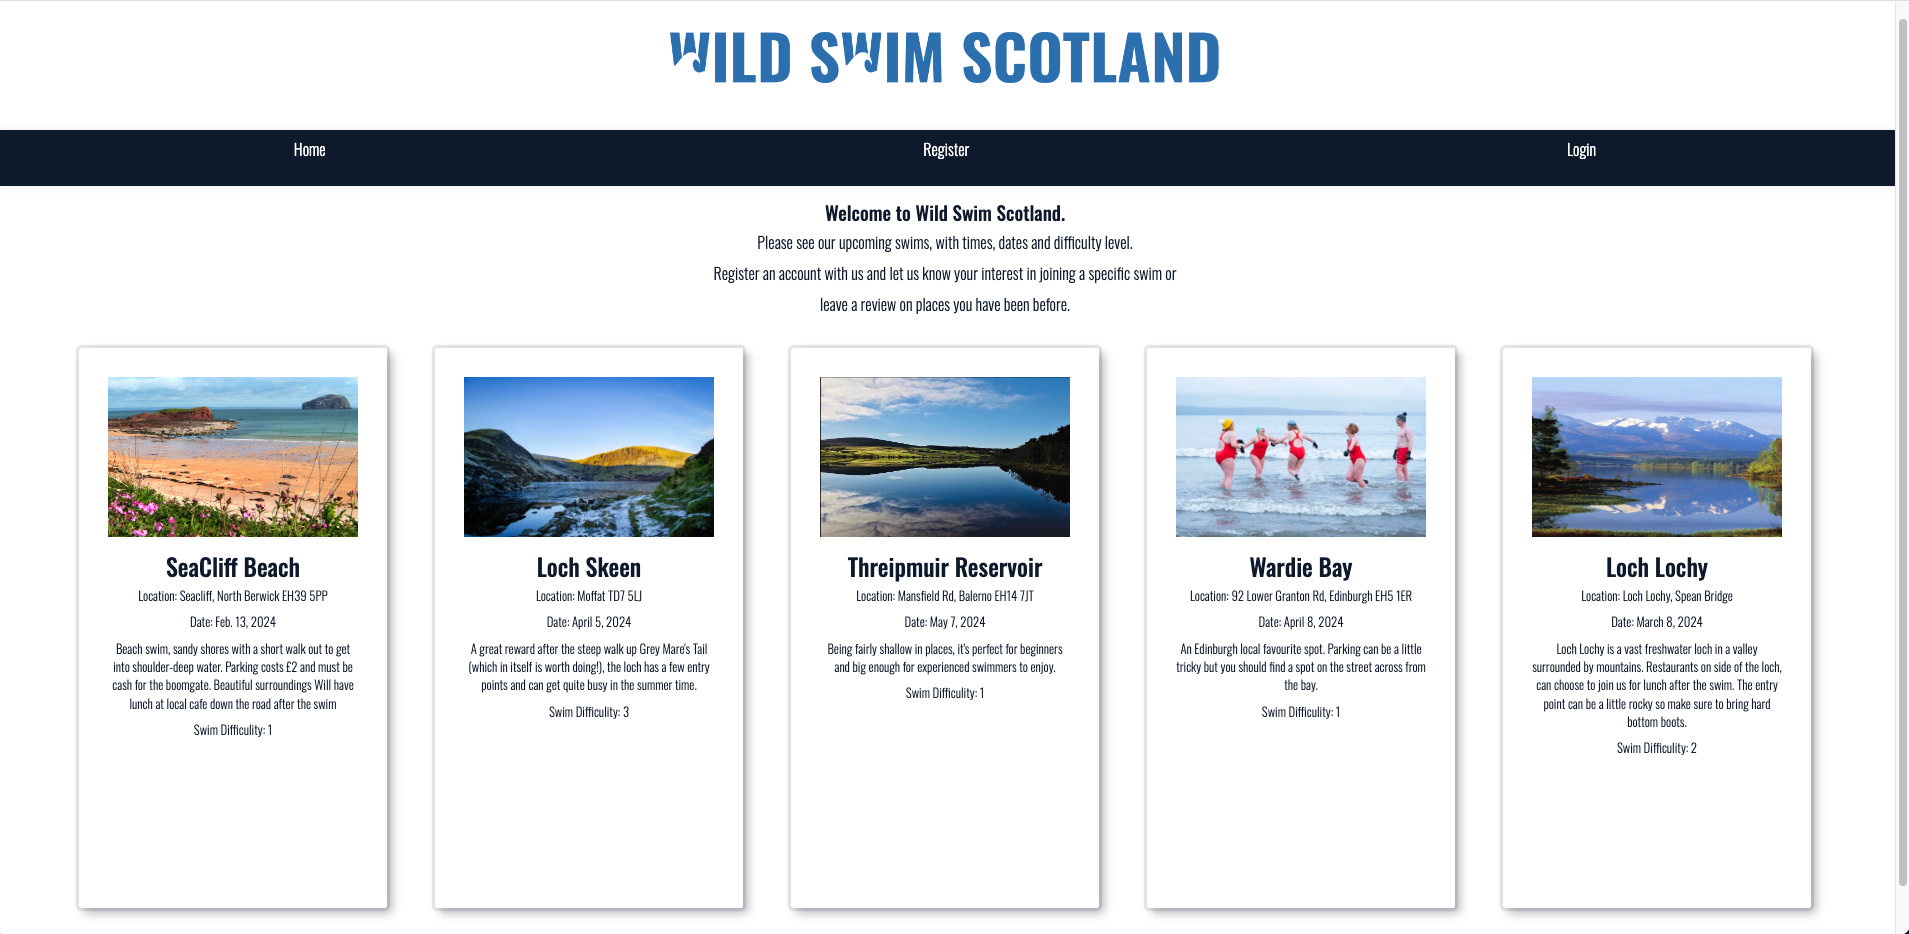
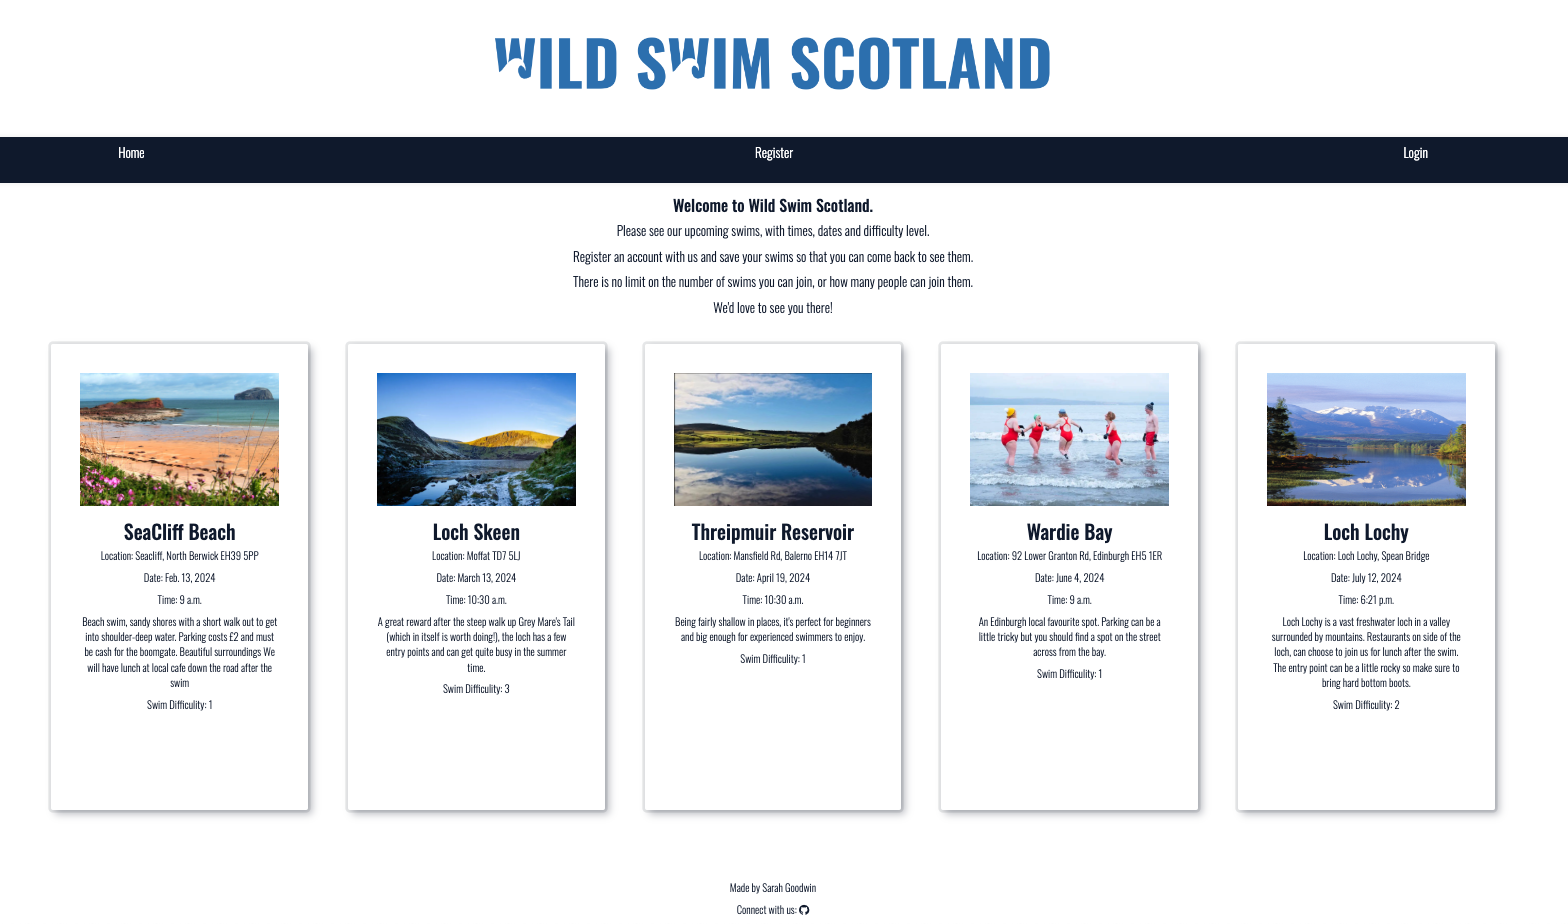
(README) update spelling and gramma error, add updated screenshots

Changed region(s): [[0.0, 0.0303, 1.0, 1.0], [0.3438, 0.2121, 0.625, 0.3636]]

diff --git a/static/css/style.css b/static/css/style.css
@@ -181,14 +181,11 @@ nav {
     margin-top: 20px;
 }
 
-#id_remember {
+#id_remember,
+#id_remember input,
+#id_remember label {
     display: none;
 }
-
-#id_remember input {
-    display: none;
-}
-
 
 #signup_form button {
     margin-top: 10px;
@@ -318,13 +315,21 @@ footer {
     margin-top: auto;
 }
 
-/* 404 & 500 Error pages */
+/* Error pages */
 
 .page-error {
     display: flex;
     flex-direction: column;
     justify-content: center;
     align-items: center;
+}
+
+.errorlist {
+    color: red;
+}
+
+.errorlist nonfield {
+    color: red;
 }
 
 /* Mobile Adjustments */

diff --git a/README.md b/README.md
@@ -33,6 +33,7 @@ The site is aimed at all wild swimmers around Scotland and hopes to help build a
         - [Staff User](#staff-user)
             - [Add Swim](#add-swim)
             - [Edit and Delete buttons](#edit-and-delete-buttons)
+            - [Delete Swims](#delete-swim)
     - [Future Features](#future-features)
 - [Technologies Used](#technologies-used)
 - [Testing](#testing)
@@ -55,7 +56,8 @@ The goals of the sites functionality are:
 - Register: users can register to the site so that they can use the sites functionality 
 - Logged In: users have the ability to join a swim and view their upcoming joined swims
 - Logged Out: users are asked if they wish to sign out of the site
-- Staff login: staff users can add new swims, read edit and delete the swims they have created from their staff account
+- Staff login: staff users can create a new swims, read, edit and delete the swims they have created from their staff account
+- Admin: can create new staff users
 
 # Agile Development
 
@@ -72,20 +74,21 @@ User stories were labelled using the MoSCoW method.
 ![Wireframe Image](documentation/readme-images/wireframe.png "wireframe image")
 
 Site structure was created before the site was created to test layout idea.
-After testing UX a different approach was taken for better flow of the site navigation. 
+After testing UX, a different approach was taken for better flow of the site navigation. 
 Nav bar was moved to middle of page with clear call to actions.
 Main image was removed to create focus on swim card images rather than a header iamge.
 Logo was moved to middle of page to have more impact. 
 
 ## Database Schema
 
-For this project the Django User Model was used for user account and one custom models with full CRUD were created for creating swims. A second custom model was created for joining a swim, however due to the function of the site this does not have full CRUD as users can only edit and delete their joined swim, rather than create and update.
+For this project the Django User Model was used for user account and one custom models with full CRUD were created for creating swims, this model is avaliable for staff users only. 
+A second custom model was created for joining a swim, however this does not have full CRUD as users can only edit and delete their joined swim, rather than create and update.
 
-Orginally there were plans to create a review model, however this feature was not fully developed and has been moved to future developmeants.
+The data schema was created using [drawSQL](https://drawsql.app/ "drawsql website homepage") before the project was started to get the flow and function of the models. 
 
-The data schema was created using [drawSQL](https://drawsql.app/ "drawsql website homepage") before the project was started to get the flow and function of the models. Some of the fields in the below image do not reflect the final data types used (such as Cloudinary) – please see the app for the true data types. 
+Some of the fields in the below image do not reflect the final data types used (such as Cloudinary) – please see the app for the true data types. 
 
-![Data Schema Image](documentation/readme-images/data-schema.png " Data Schema Image ")
+![Data Schema Image](documentation/readme-images/new-data-schema.png " Data Schema Image ")
 
 ## Typography
 
@@ -95,9 +98,11 @@ I chose this font for its tall height and wide proportions, making it a great ch
 
 ## Colour Palette
 
-I chose the colour #0d1a32 to remind people of the water and paired this with a white background for contrast and for a clean look and finish. As the swims will all have an image of a wild swim, either uploaded by the creator or using the default image, the blues in images from the water will match with #0d1a32 as the primary colour. 
+I chose the colour #0d1a32 as the primary colour to remind people of the water and paired this with a white background for contrast and for a clean look and finish. As the swims will all have an image of a wild swim, either uploaded by the creator or using the default image, the blues in images from the water will help tie in with #0d1a32 as the primary colour. 
 
-![Color Hexa Image](documentation/readme-images/color-hexa.png " Color Hexa Image ")
+Secondary colours #327ab7 and #d6e4f0 were chosen as a continueation of #0d1a32 with an accent colour of #b5e2e0. These blues all represent the water that draws all swimmers to it. 
+
+![Color palette Image](documentation/readme-images/colour-palette.png" Color palette Image ")
 
 ### Logo
 
@@ -125,15 +130,15 @@ This is why I chose to display the swims as swim cards which have a very clean l
 
 ![Homepage](documentation/readme-images/homepage.png " Home page image ")
 
-The landing page of the site shows a non logged in / non registered user the upcoming swims and gives and explination of what Wild Swim Scotland is about. 
+The landing page of the site shows a non logged in / non registered user the swims cards and gives and explination of what Wild Swim Scotland is about. 
 The text 
 *Please see our upcoming swims, with times, dates and difficulty level.
-Register an account with us and save your swims so that you can come back to see them.
+Register an account with us and save your swims so that you can come back to see the details.
 There is no limit on the number of swims you can join, or how many people can join them.
 We'd love to see you there!*
 Gives users a clear indication on what the site offers them and what actions they should next perform.
 
-It has 2 call to actions, Reigster and Login. 
+The landing page has 2 call to actions, Reigster and Login. 
 
 The landing page is responsive for different screen sizes and scales down for easy mobile or tablet use. 
 
@@ -157,6 +162,9 @@ If the username and password are not correct this error will show.
 The register page welcomes users to the site with a friendly greeting. It lets users know that in order to use the site functions they must reigster an account.
 
 It offers them space for a username, password and then rechecks the password to ensure it matches and there were no errors.
+An example of some of the errors:
+
+![register form errors](documentation/readme-images/register-form-errors.png " register form errorsimage ")
 
 The text at the bottom lets users know who already have an account that they can sign in using the login page.
 
@@ -184,24 +192,27 @@ The page is soley for the user themselves and does not link to the staff user se
 
 ### Add Swim
 
+![add swim form](documentation/readme-images/add-swim-form.png " add swim form image ")
+
 The add swim page allows staff users to add new swism to the swim list. If they have not provided an image for their swim, the placeholder image will be added for them.
 The Add Swim page has warnings for both the date, time and swim difficulty fields if they are not entered correctly.
-To prevent users from entering the date in the wrong format the YYYY-MM-DD text has been added.
-To prevent users from enterting the time in the wrong formate the 00:00:00 text has been added.
-to prevent users from entering the swim difficulty incorrectly the 1-5 text has been added.
+To prevent users from entering the date in the wrong format the placeholder text 'YYYY-MM-DD' has been added.
+To prevent users from enterting the time in the wrong formate the placeholder text '00:00:00' has been added.
+to prevent users from entering the swim difficulty incorrectly the 'Between 1-5 text' has been added.
 If the above fields are not entered correctly a warning will show.
 
-![swim warning](documentation/readme-images/swim-warning.png " swim warning image ")
+![add swim warnings](documentation/readme-images/add-swim-warnings.png " add swim warnings image ")
 
-![time warning](documentation/readme-images/time-warning.png " time warning image ")
-
-![date warning](documentation/readme-images/date-warning.png " date warning image ")
 
 ## Edit and Delete buttons
+
+![edit and delete buttons](documentation/readme-images/edit-and-delete-button.png " edit and delete button image ")
 
 The edit and delete buttons only appear to a swim that the specific staff user has added, they cannot edit or delete swims other staff members have created.
 
 When clicking on the edit swim button the form has the same functions as the add swim form, however the swim details are already populated so that the staff user can edit them according. The same error warning functions as the add swim form.
+
+## Delete Swim
 
 When clicking the delete swim buttton the user is asked if they are sure they want to delete the swim before the action is performed. 
 
@@ -211,19 +222,19 @@ When clicking the delete swim buttton the user is asked if they are sure they wa
 
 There are some future features that I would like to add to the project to improve user functions.
 
-- Reviews
-I began to create the review function of the site, where users could come in and add reviews for different swim locations so that others could make a more informed decision on if they wanted to join a particular swim.
+- Reviews:
+I began to create the review feature of the site, where users could come in and add reviews for different swim locations so that others could make a more informed decision on if they wanted to join a particular swim. However this feature was moved to future implimentation as it could not be fully realised to the standard of the project at this time.
 
-- Community Board
+- Community Board:
 It would be good to have a community board for wild swimmers to chat to each other and post stories and photos from their swims and connect together
 
-- Date Picker
+- Date Picker:
 Currently the date picker allows staff users to pick any date, a future implimentation would be to restrict the date picker to only have future dates
 
-- Past Swims
+- Past Swims:
 A section of the community page where past swims would automatically go after their date was passed so users could see what type of swims they had done previously
 
-- Joined Swims saved to staff dashboard
+- Joined Swims saved to staff dashboard:
 In the future I would like to have the join swim button log which user has joined which swim and have a staff dashboard area so that staff users could see how many people had signed up to that particular swim. 
 
 
@@ -233,7 +244,7 @@ In the future I would like to have the join swim button log which user has joine
 
 - [Lucidchart](https://www.lucidchart.com/ "link to Lucidchart homepage")
 Lucidchart was used to create the wireframe in the planning stages of the project
-- [drawSQL](https://drawsql.app/ “drawsql website homepage”)
+- [drawSQL](https://drawsql.app/ "Drawsql homepage")
 Drawsql was used to create the data schema
 - [HTML5](https://en.wikipedia.org/wiki/HTML5 "link to html5 wikipedia")
 Used to create structure and content for the site.
@@ -266,8 +277,8 @@ Testing detail can be found [here](TESTING.md)
 
 # Deployment
 
-This project was developed using [Codeanywhere](https://app.codeanywhere.com/ "Link to Codeanywhere login") at the start until issues with codeanywhere occured. It was committed and pushed to GitHub using the Codeanywehere terminals.
-After the issues with codeanywhere the project was moved to [GitPod](https://www.gitpod.io/ "link to gitpod homepage") and continuted from there. The projected had deployed at the start so the following is a step by step of how it was first deployed.
+This project was developed using [Codeanywhere](https://app.codeanywhere.com/ "Link to Codeanywhere login") to begin with until issues with codeanywhere occured. It was committed and pushed to GitHub using the Codeanywehere terminals.
+After the issues with codeanywhere, the project was moved to [GitPod](https://www.gitpod.io/ "link to gitpod homepage") and continuted from there. The projected had deployed at the start so the following is a step by step of how it was first deployed.
 
 ## Cloning The Repository
 

diff --git a/TESTING.md b/TESTING.md
@@ -5,23 +5,23 @@ Return to [README.md](README.md)
 # Table of Contents
 
 - [Code Validation](#code-validation)
-- [W3C HTML Validation Results](#w3c-html-validation-results)
-- [W3C CSS Validation Results](#w3c-css-validation-results)
-- [JSHint Validation Results](#jshint-validation-results)
-- [CI Python Linter Validation Resu](#ci-python-linter-validation-results)
-- [Manaul Testing](#manaul-testing)
-- [Home Page](#home-page)
-- [Register Page](#register-page)
-- [Login Page](#login-page)
-- [Homepage as Logged in user](#homepage-as-logged-in-user)
-- [Upcoming Swims](#upcoming-swims)
-- [Logout](#logout)
-- [Homepage as staff user](#homepage-as-staff-user)
-- [Add Swim](#add-swim)
-- [Edit Swim](#edit-swim)
-- [Delete Swim](#delete-swim)
-- [Other Testing](#other-testing)
-- [Responsivness testing](#responsivness-testing)
+    - [W3C HTML Validation Results](#w3c-html-validation-results)
+    - [W3C CSS Validation Results](#w3c-css-validation-results)
+    - [JSHint Validation Results](#jshint-validation-results)
+    - [CI Python Linter Validation Results](#ci-python-linter-validation-results)
+- [Manual Testing](#manaul-testing)
+    - [Home Page](#home-page)
+    - [Register Page](#register-page)
+    - [Login Page](#login-page)
+    - [Homepage as Logged in user](#homepage-as-logged-in-user)
+    - [Upcoming Swims](#upcoming-swims)
+    - [Logout](#logout)
+    - [Homepage as staff user](#homepage-as-staff-user)
+    - [Add Swim](#add-swim)
+    - [Edit Swim](#edit-swim)
+    - [Delete Swim](#delete-swim)
+    - [Other Testing](#other-testing)
+    - [Responsiveness testing](#responsivness-testing)
 - [Browser Compatibility](#browser-compatibility)
 - [User Testing](#user-testing)
 - [Accessibility Testing](#accessibility-testing)
@@ -76,7 +76,7 @@ After testing all errors were fixed and document checking complete was shown for
 
 All custom CSS has been run through the [W3C CSS Validator](https://jigsaw.w3.org/css-validator/ "jigsaw w3 page")
 
-No errors were found when running css through w3c validator
+No errors were found when running CSS through w3c validator
 
 ![css w3c](documentation/testing-images/css-errors.png "css validator image")
 
@@ -101,21 +101,21 @@ Final testing showed:
 
 ![CI Python Linter](documentation/testing-images/linter-no-errors.png "python linter image")
 
-# Manaul Testing
+# Manual Testing
 
 ## Home Page
 
 | **TEST** | **ACTION** | **EXPECTATION** | **RESULT** | **FIX** |
 | -------- | ---------- | --------------- | -----------| ------- |
-| Swim Cards | Opened site url | Swim cards are visable | Worked as expected | N/A |
-| Nav Links | Opened site url | Only register and login nav links are visable | Worked as expected | N/A |
+| Swim Cards | Opened site url | Swim cards are visible | Worked as expected | N/A |
+| Nav Links | Opened site url | Only register and login nav links are visible | Worked as expected | N/A |
 | Join Swim Buttons | Opened site url | Cannot see Join Swim Buttons | Worked as expected | N/A |
 
 ## Register Page
 
 | **TEST** | **ACTION** | **EXPECTATION** | **RESULT** | **FIX** |
 | -------- | ---------- | --------------- | -----------| ------- |
-| Registration Form | Clicked on reigster nav link | Register form is displaying | Worked as expected | N/A |
+| Registration Form | Clicked on register nav link | Register form is displaying | Worked as expected | N/A |
 | Username | Typed in @£$%^ as username | Warning will show | Warning showed 'Enter a valid username. This value may contain only letters, numbers, and @/./+/-/_ characters.' | Worked as expected |
 | Username | Typed in admin as username | Warning will show | Warning showed 'A user with that username already exists.' | Worked as expected |
 | Password 1 | Typed in password same as username | Warning will show | Warning showed 'The password is too similar to the username.' | Worked as expected |
@@ -139,7 +139,7 @@ Final testing showed:
 | Join Swim Button | Clicked Join Swim | Swim added to upcoming swims page | Worked as expected | N/A |
 | Your Upcoming Swims | Left page and re-clicked on upcoming swims | Previous swims that had been added still there | Worked as expected | N/A |
 | Logout | Logout button replaced login button | No login button | Worked as expected | N/A |
-| Register | Register button no longer avaliable | No register button | Worked as expected | N/A |
+| Register | Register button no longer available | No register button | Worked as expected | N/A |
 
 ## Upcoming Swims
 
@@ -171,12 +171,12 @@ Final testing showed:
 | Title | Tried to type unending title  | Form stops user from typing further | Worked as expected | N/A |
 | Description | Tired to type more than 250 characters | Form stops typing further | Worked as expected | N/A |
 | Date | Tried to input wrong date format | Date Picker stops form with error message | Worked as expected | N/A |
-| Date | Tried to type 45 in day section | Date Picker automcatically moves user forward | Worked as expected | N/A |
+| Date | Tried to type 45 in day section | Date Picker automatically moves user forward | Worked as expected | N/A |
 | Time | Tried to input 19.20 as time | Error message show | Error message showed 'Enter a valid time.' | Worked as expected |
 | Swim Difficulty | Tried to put 10 as swim level | Error message to show | Error message showed 'Ensure this value is less than or equal to 5.' | Worked as expected |
 | Location | Tried to type unending location | Form stops user from typing further | Worked as expected | N/A |
 | With image | Submitted large image | Image to be resized to fit swim card | Worked as expected | N/A |
-| No image | Submitted no image | Image to be replaced with palceholder | Worked as expected | N/A |
+| No image | Submitted no image | Image to be replaced with placeholder | Worked as expected | N/A |
 | Submit | Clicked submit button | Form to be submitted and new swim card created | Worked as expected | N/A |
 | New swim added to homepage | Can see swim on homepage | Showing edit and delete buttons for new swim | Worked as expected | N/A |
 
@@ -188,12 +188,12 @@ Final testing showed:
 | Title | Tried to type unending title  | Form stops user from typing further | Worked as expected | N/A |
 | Description | Tired to type more than 250 characters | Form stops typing further | Worked as expected | N/A |
 | Date | Tried to input wrong date format | Date Picker stops form with error message | Worked as expected | N/A |
-| Date | Tried to type 45 in day section | Date Picker automcatically moves user forward | Worked as expected | N/A |
+| Date | Tried to type 45 in day section | Date Picker automatically moves user forward | Worked as expected | N/A |
 | Time | Tried to input 19.20 as time | Error message show | Error message showed 'Enter a valid time.' | Worked as expected |
 | Swim Difficulty | Tried to put 10 as swim level | Error message to show | Error message showed 'Ensure this value is less than or equal to 5.' | Worked as expected |
 | Location | Tried to type unending location | Form stops user from typing further | Worked as expected | N/A |
 | With image | Submitted large image | Image to be resized to fit swim card | Worked as expected | N/A |
-| No image | Submitted no image | Image to be replaced with palceholder | Worked as expected | N/A |
+| No image | Submitted no image | Image to be replaced with placeholder | Worked as expected | N/A |
 | Submit | Clicked submit | New edits show on homepage | Worked as expected | N/A |
 | New swim added to homepage | Clicked Home | New edits show on homepage | Worked as expected | N/A |
 
@@ -211,9 +211,9 @@ Final testing showed:
 | -------- | ---------- | --------------- | -----------| ------- |
 | 404 Error | Typed /hello at end of url | 404 error page to show | Worked as expected | N/A |
 | URL Access | Typed /swim/add at end of url | 404 error page to show | Taken back to login page | Warning could be added to show to user what happened rather than redirect |
-| URL Access | Typed /atricle/add at end of url | 404 error page to show | Taken back to login page | Warning could be added to show to user what happened rather than redirect |
+| URL Access | Typed /article/add at end of url | 404 error page to show | Taken back to login page | Warning could be added to show to user what happened rather than redirect |
 
-## Responsivness testing
+## Responsiveness testing
 
 | **DEVICE** | **ACTION** | **EXPECTATION** | **RESULT** | **FIX** |
 | -------- | ---------- | --------------- | -----------| ------- |
@@ -239,14 +239,14 @@ Here is the form that was sent.
 
 Feedback from the form
 
-* Better responsivness for mobile - added media queries after this feedback
+* Better responsiveness for mobile - added media queries after this feedback
 * User testing did not throw many errors as users followed instructions
 * Users found it easy to add, edit, and delete a swim
 * Users found it easy to create an account and navigate the website 
 
 ### Things to implement from user testing
 
-* Uer reported that "I put in a none matching password and it didn't warn me" so password errors were added to form to ensure this cannot happen
+* User reported that "I put in a non matching password and it didn't warn me" so password errors were added to form to ensure this cannot happen
 
 * User reported "Had a problem with the time field. Would be good to know the format it was looking for." so placeholder text was added
 
@@ -290,7 +290,7 @@ Examples of results are as follows:
 <details>
 <summary> Logout </summary>
 
-![logout lighthouse](documentation/testing-images/lighthouse-logout.png"logout lighthouse image")
+![logout lighthouse](documentation/testing-images/lighthouse-logout.png "logout lighthouse image")
 
 </details>
 
@@ -306,7 +306,7 @@ This error was typed into Google and the [Stack Overflow](https://stackoverflow.
 
 The meta tag <meta http-equiv="Content-Security-Policy" content="upgrade-insecure-requests"> was added to the base.html and the error was resolved.
 
-- Unresolved 
+## Unresolved 
 
 Errors for the add swim and edit swim forms from W3C were flagged however as this is needed for the site function they have been left in.
 
